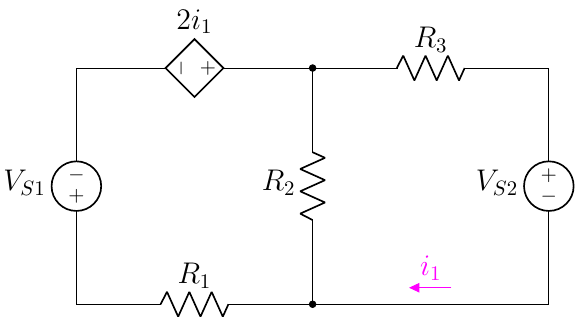
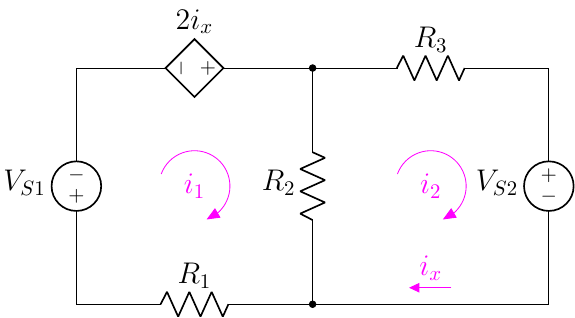
edit 4.38

diff --git a/1.5 Mesh Analysis/4.3 Mesh Analysis/4.38(new).tex b/1.5 Mesh Analysis/4.3 Mesh Analysis/4.38(new).tex
@@ -12,10 +12,12 @@
     \draw(0,0)  to[R,l=\rname{1},-*] ++(4,0)
                 to[short] ++(4,0);
 
-    \draw(0,4)  to[american controlled voltage source,l=$2i_1$,-*] ++(4,0)
+    \draw(0,4)  to[american controlled voltage source,l=$2i_x$,-*] ++(4,0)
                 to[R,l=\rname{3}] ++(4,0);
 
     %%% find %%%
-    \draw[circuitikz/current arrow color=magenta] (4,0) to[short,f^<=$\color{magenta}{i_1}$] ++(4,0);
+    \draw[circuitikz/current arrow color=magenta] (4,0) to[short,f^<=$\color{magenta}{i_x}$] ++(4,0);
+    \loopc{2}{2}{1};
+    \loopc{6}{2}{2};
 \end{circuitikz}
 \end{document}
